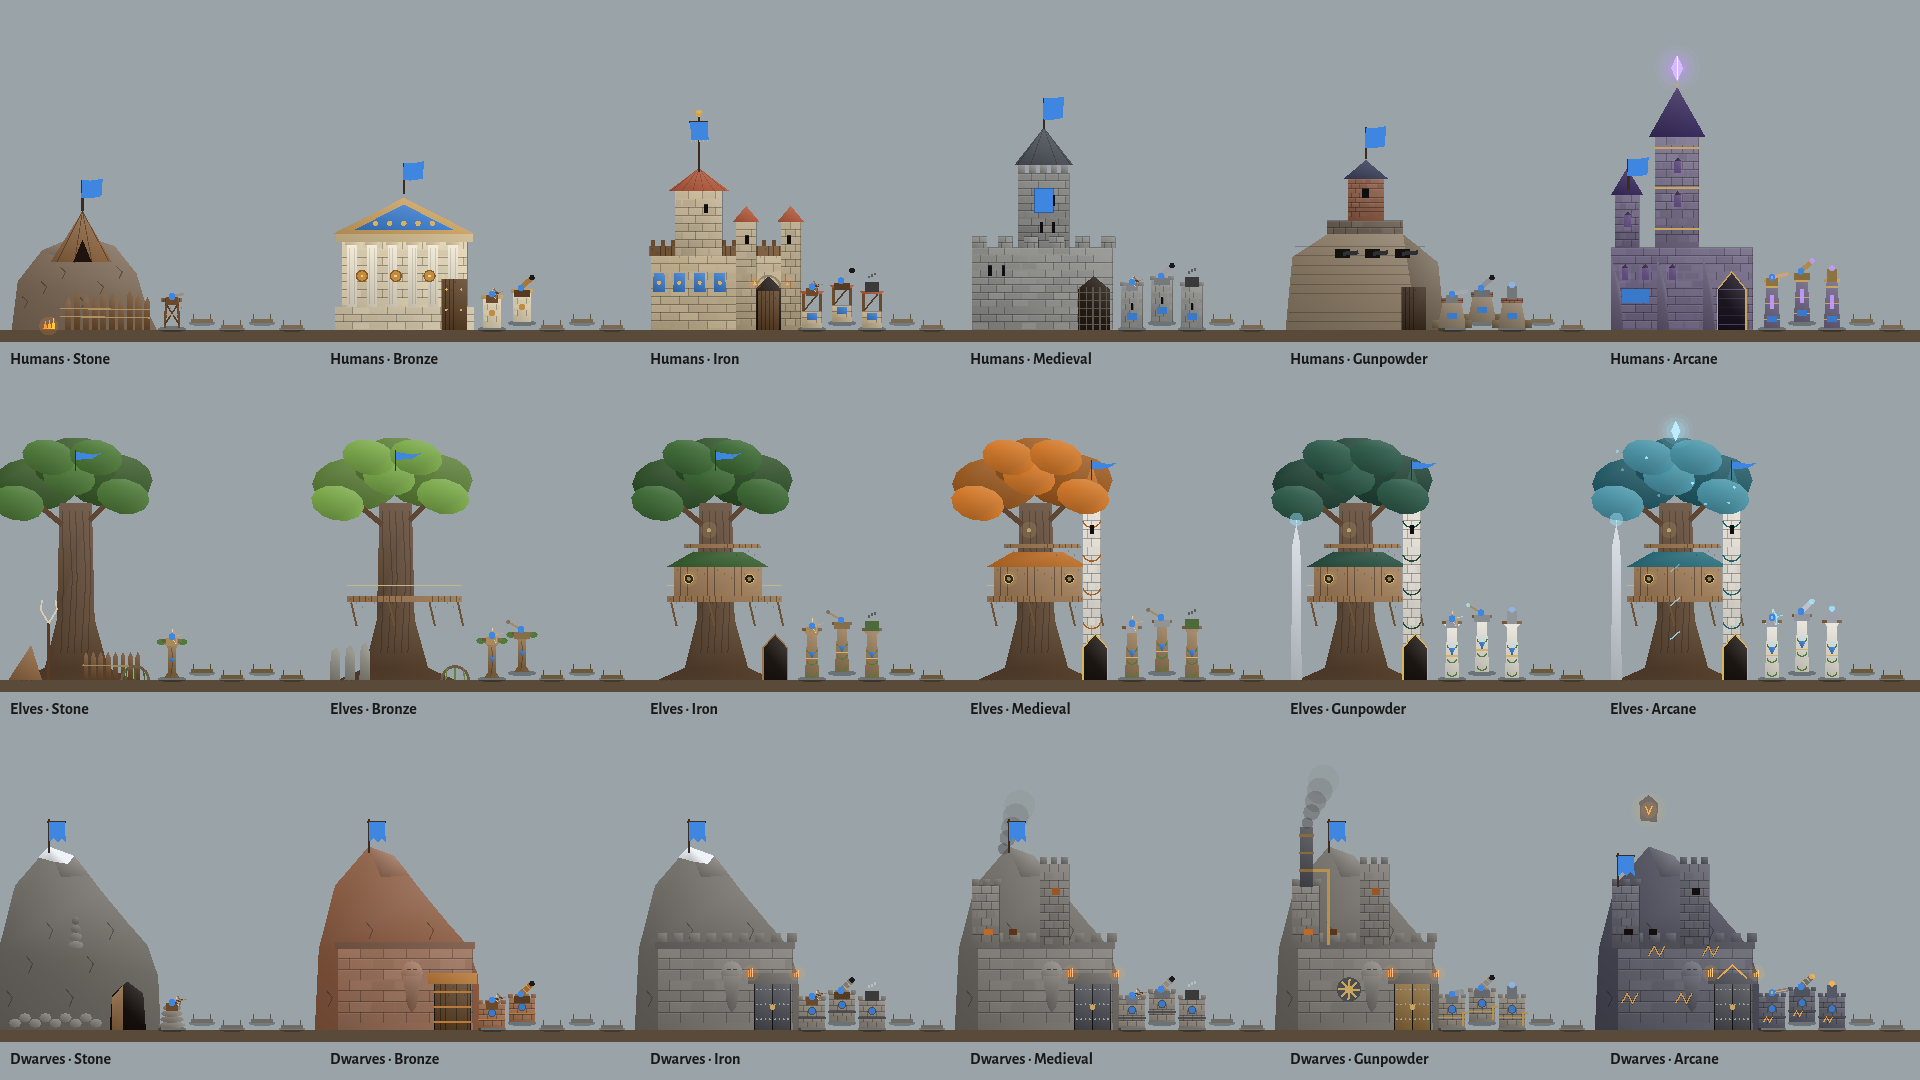
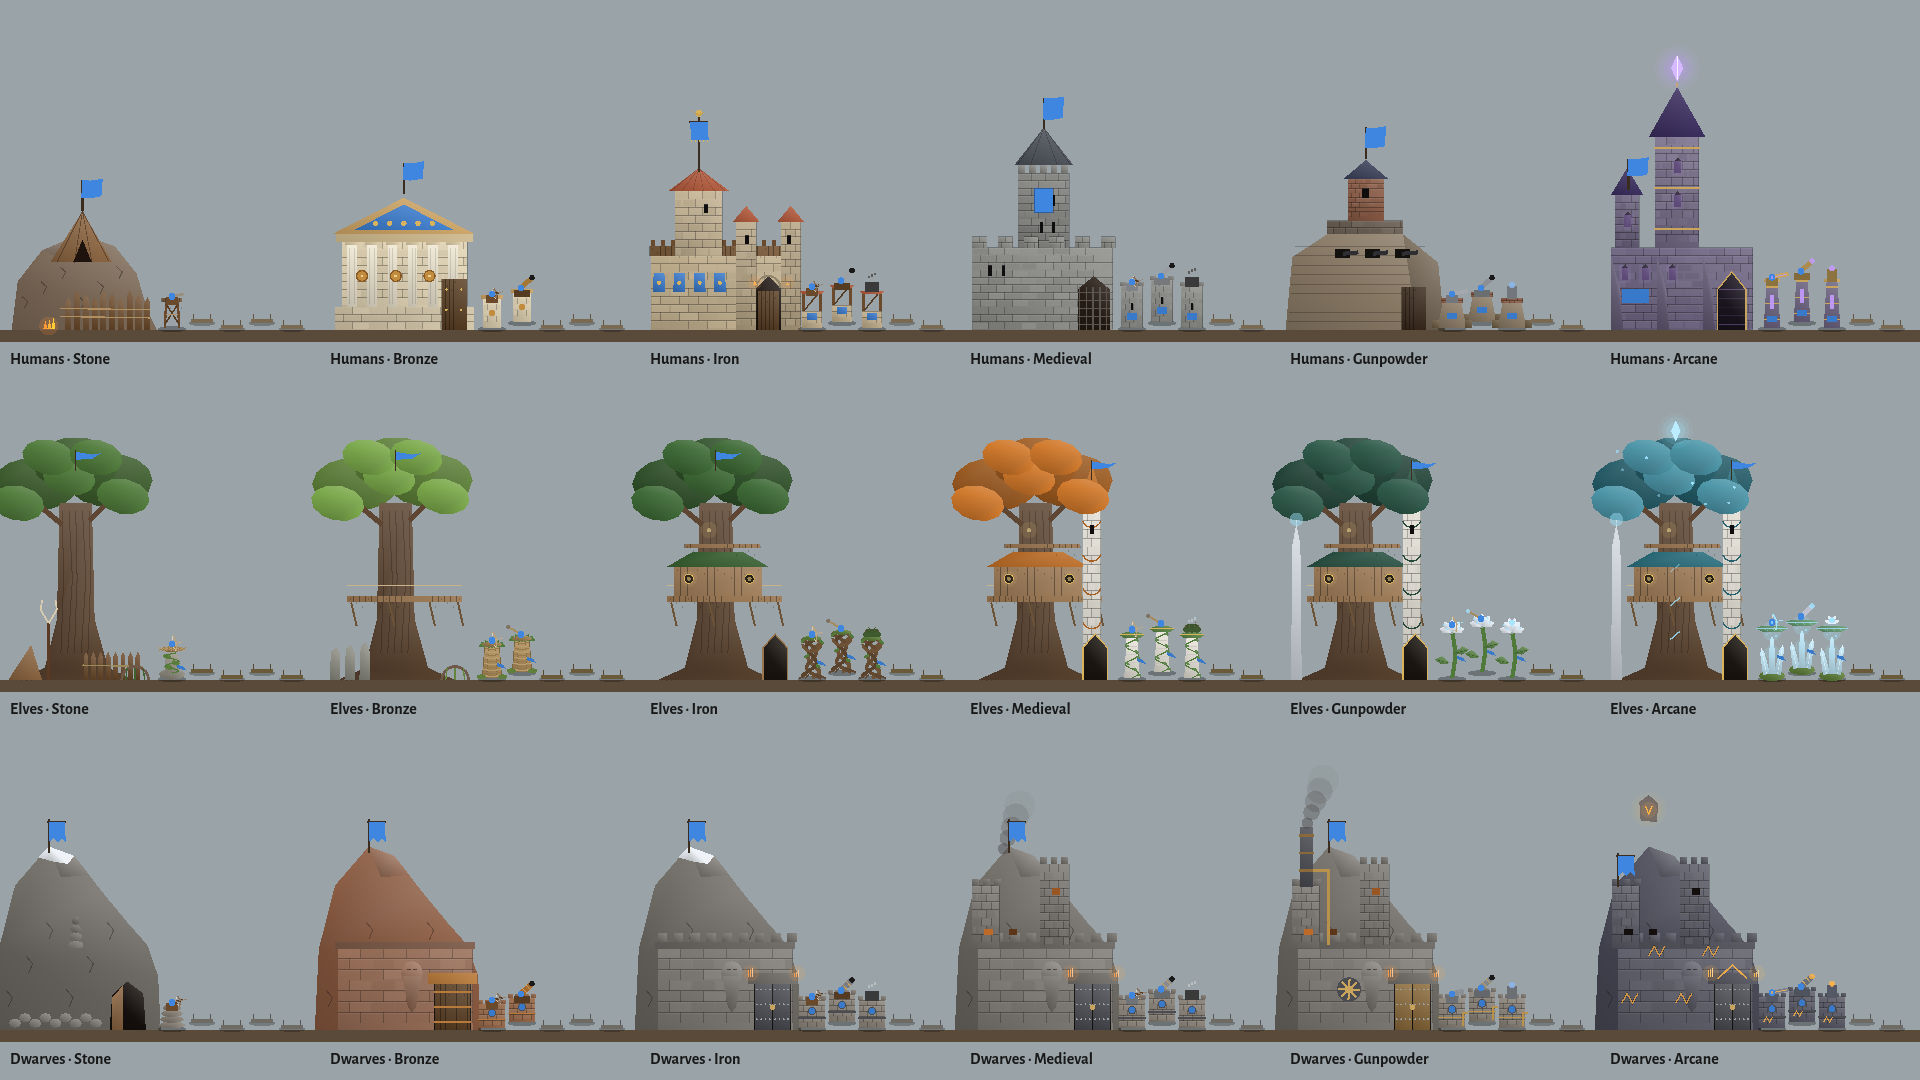
Elven towers grown from nature instead of tree trunks
Six elven turret towers, one per age: a mossy standing stone with a
woven nest, a wicker tower, braided living roots, a vine-bound white
column with a leaf balcony, a great flower cupping the turret, and a
crystal bloom under a floating leaf. Elven turrets sit on the tower top
without the square plate, and elven support turrets become a thorn
bramble or a petal-cupped seed of light. base_gallery --towers renders
a close-up of every race's towers (reports/tower_gallery.png).

Claude-Session: https://claude.ai/code/session_01NbqpH9Xk4DuDkhjQFEReGc

diff --git a/docs/PLAN.md b/docs/PLAN.md
@@ -113,7 +113,7 @@ Until painted parts exist (M2), everything is drawn procedurally with canvas cal
 | `scripts/view/world_layer.gd` | Bases, turrets, units, corpses (pooled nodes for per-corpse fade), HP bars, rally and front markers |
 | `scripts/view/art/race_look.gd` | Races (GDD §5.7): body proportions, skin/hair, magic colour, clothing palettes per age and the style of every unit slot per race. Names come from `data/races/*.tres` (`RaceDef`); the sim only carries the race id on `SimSide` |
 | `scripts/view/art/unit_art.gd` | Modular rigs (humanoid with race proportions, rider on boar/horse/stag/elk/ram/bear, chariot, ram, catapult, ballista, trebuchet, cannon, steam tank, golem, treant, sky cannon, obelisk) dressed per race and unit slot; walk phase from distance walked (no foot sliding), attack poses with anticipation → contact → recovery, hit flash, secondary motion on plumes/manes |
-| `scripts/view/art/base_art.gd` | Bases drawn in two passes: static architecture (masonry courses, planks, roofs, slits) rendered once per race, age and team into a cached SubViewport texture; banners, fire, smoke and night-lit windows drawn live. One base per race and age (human forts, elven tree-halls, dwarven mountain holds; `tools/base_gallery.gd`); turrets stand on their own towers on the ground in front of the gate (one per slot, styled by race and the turret's age, drawn behind the units), so base art never has to leave room for mounts; damage states (cracks, fire), rebuild-on-evolve; turrets per kind and age with aim and recoil |
+| `scripts/view/art/base_art.gd` | Bases drawn in two passes: static architecture (masonry courses, planks, roofs, slits) rendered once per race, age and team into a cached SubViewport texture; banners, fire, smoke and night-lit windows drawn live. One base per race and age (human forts, elven tree-halls, dwarven mountain holds; `tools/base_gallery.gd`); turrets stand on their own towers on the ground in front of the gate (one per slot, styled by race and the turret's age — elven ones grown or woven from nature: mossy stone and nest, wicker, braided roots, vine-bound column, great flower, crystal bloom — drawn behind the units), so base art never has to leave room for mounts; damage states (cracks, fire), rebuild-on-evolve; turrets per kind and age with aim and recoil |
 | `scripts/view/art/scenery.gd`, `backdrop.gd`, `shaders/split_backdrop.gdshader` | Parallax scenery per race and age (GDD §4.1: human lands, elven forests, dwarven mountains), the split battlefield blended at the front line with a ragged brush seam, and the painterly dissolve when a side evolves |
 | `scripts/view/art/front_layer.gd` | In front of the lane, split at the seam like the backdrop: weather per race and age (dust motes, fireflies, gulls, petals and falling leaves, drizzle, storm rain with splashes, snow, ash and rising embers, arcane sparks) as stateless time-driven particles, plus foreground props on a faster parallax for depth |
 | `shaders/unit_outline.gdshader` | Each side's units render inside a `CanvasGroup`: dark ink outline with a faint team-coloured rim for clarity in crowds |

diff --git a/CLAUDE.md b/CLAUDE.md
@@ -27,7 +27,7 @@ timeout 90 xvfb-run -a -s "-screen 0 1920x1080x24" tools/godot --path . --resolu
 # Unit gallery (colour / greyscale / silhouette of every unit) for the PRD §11 silhouette check:
 timeout 90 xvfb-run -a -s "-screen 0 1920x1080x24" tools/godot --path . --resolution 1920x1080 -s tools/unit_gallery.gd -- --out=reports/unit_gallery.png
 # (--race=elf for one race's three modes; --race=all for the three races side by side.)
-# Base gallery (every race × age base with its turret towers in front; --night=1 lights the windows):
+# Base gallery (every race × age base with its turret towers in front; --towers for a close-up of the towers; --night=1 lights the windows):
 timeout 90 xvfb-run -a -s "-screen 0 1920x1080x24" tools/godot --path . --resolution 1920x1080 -s tools/base_gallery.gd -- --out=reports/base_gallery.png
 ```
 
